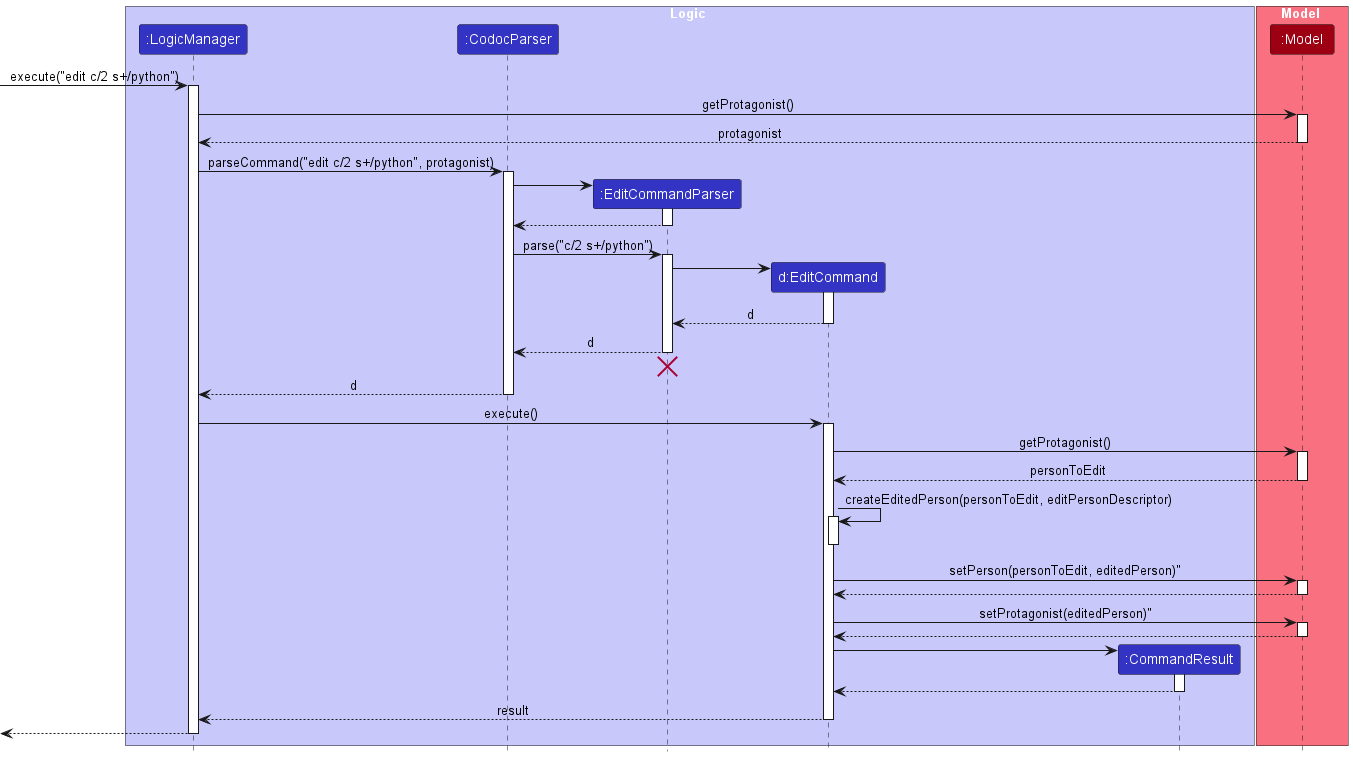
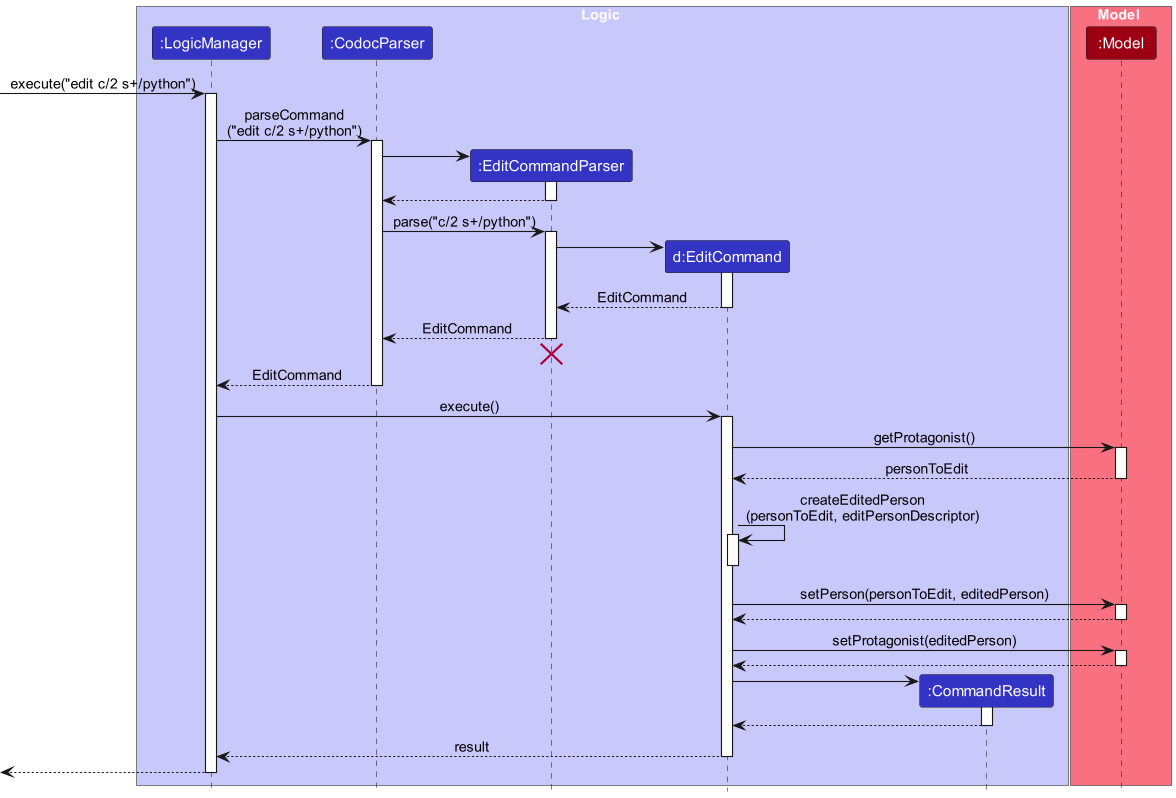
update dg

diff --git a/docs/DeveloperGuide.md b/docs/DeveloperGuide.md
@@ -720,7 +720,7 @@ For `Skills` and `Modules`, the command is capable of adding, deleting and updat
 Given below is a sequence diagram to illustrate how the person list is updated after the user attempts to edit the
 person.
 
-![Edit Command Sequence Diagram](images/NewEditSequenceDiagram.png)
+![Edit Command Sequence Diagram](images/EditSequenceDiagram.png)
 
 <div style="page-break-after: always;"></div>
 
